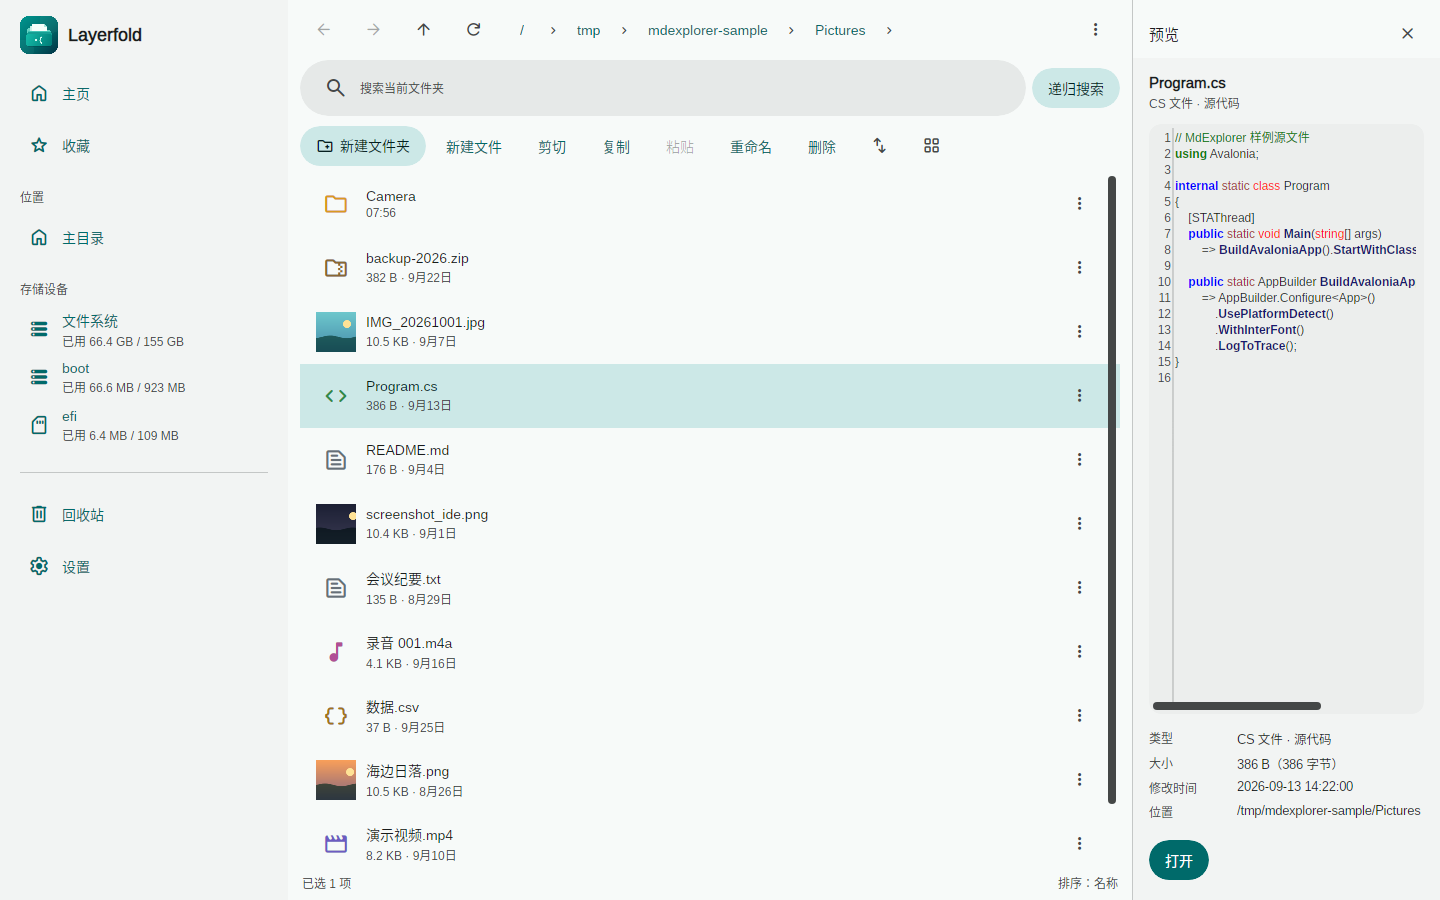
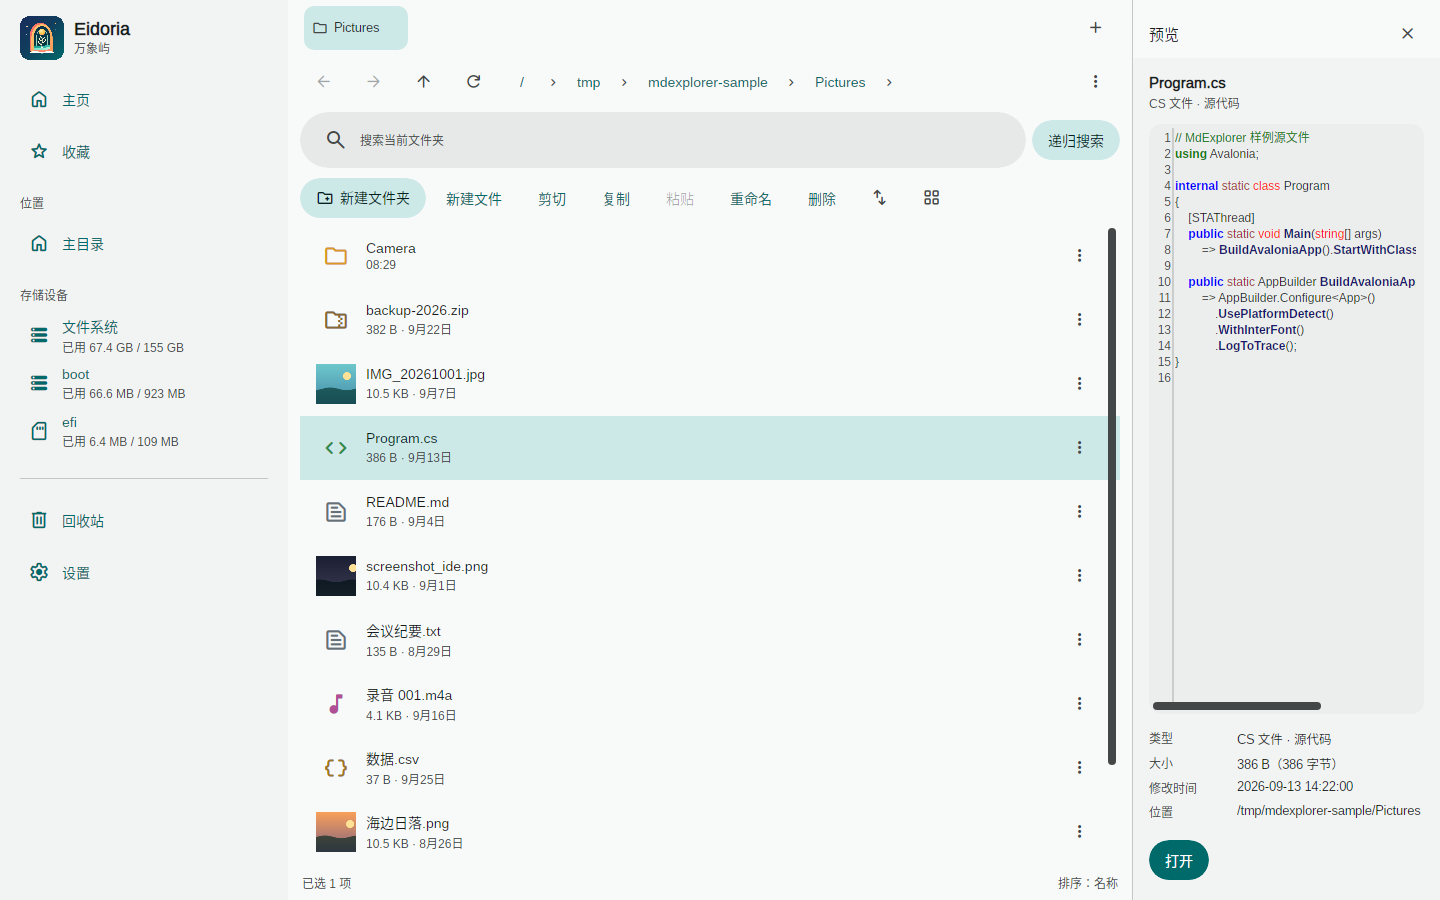
docs: 归档 v0.6 截图并回填 CI 结果

diff --git a/README.md b/README.md
@@ -6,7 +6,7 @@
 
 > **状态：v0.6**——浏览/搜索/预览（图片、文本、**Markdown 渲染、代码高亮、PDF 分页**、ZIP 条目）/复制移动删除（含回收站语义）/ZIP/收藏/设置已可用；v0.2 新增文件夹外部变更自动刷新、文件夹大小、校验和与批量重命名；**v0.3 新增 Android SAF 授权文件夹浏览**；**v0.4 新增详细信息视图**；**v0.5 新增拖放与系统剪贴板互通**；**v0.6 新增浏览器标签页与 PDF 分页预览，并将产品品牌定为 Eidoria（万象屿）**（名称与图标见 `docs/BRAND.md`；仓库、命名空间、Android ApplicationId 与数据目录仍保留内部代号 MdExplorer 以兼容既有数据）。标签页各自保存路径、前进/后退栈、过滤词与选集，并可跨启动恢复；PDF 预览采用 MIT 许可的 PDFtoImage/PDFium 按页光栅化（Android 内置预览需 API 31+）。音视频播放为后续里程碑；**插件系统与本地 AI 两条轨道已完成评估、仍排在核心完善之后**。
 
-## 效果（CI 无头渲染实拍，归档于 `docs/assets/screenshots/`，含 Markdown/代码/批量重命名/详细信息视图/拖放提示共 16 张）
+## 效果（CI 无头渲染实拍，归档于 `docs/assets/screenshots/`，含 Markdown/代码/批量重命名/详细信息视图/拖放提示/标签页/PDF 共 18 张）
 
 <img src="docs/assets/screenshots/05-large-1440x900.png" alt="Large 1440：永久抽屉 + 网格 + 预览侧栏" width="720" />
 
